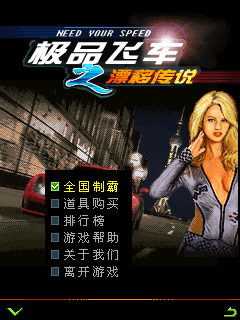
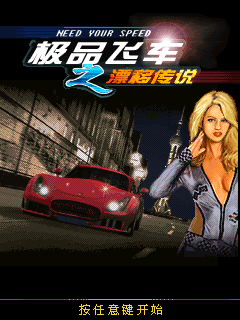
Restore native touch queries and rectangle hit testing

diff --git a/crates/nicaiemu-core/src/machine/services/game.rs b/crates/nicaiemu-core/src/machine/services/game.rs
@@ -211,6 +211,24 @@ impl NicaiMachine {
                 );
                 self.set_result(u32::from(result));
             }
+            52 => {
+                let stack = self.register(reg::SP);
+                let left = signed_coord(self.register(0));
+                let top = signed_coord(self.register(1));
+                let width = signed_coord(self.register(2));
+                let height = signed_coord(self.register(3));
+                let result = width > 0
+                    && height > 0
+                    && rect_contains_point(
+                        left,
+                        top,
+                        left + width - 1,
+                        top + height - 1,
+                        signed_coord(self.memory.r32(stack)),
+                        signed_coord(self.memory.r32(stack + 4)),
+                    );
+                self.set_result(u32::from(result));
+            }
             56 if gameold_abi => {
                 self.handle_method_stub(Self::method_stub_address(METHOD_KIND_GAMEOLD, 0xe0) & !1);
             }
@@ -1844,6 +1862,14 @@ impl NicaiMachine {
             (0x190, 3, 102),
             (0x1ac, 11, 9),
             (0x1b0, 3, 110),
+            (0xd0, 3, 52),
+            (0xf8, 3, 62),
+            (0xfc, 3, 63),
+            (0x100, 3, 64),
+            (0x104, 3, 65),
+            (0x108, 3, 66),
+            (0x10c, 3, 67),
+            (0x110, 3, 68),
         ] {
             self.memory.w32(
                 info + offset,
@@ -1984,6 +2010,69 @@ mod tests {
 
     fn pack(high: i16, low: i16) -> u32 {
         u32::from(low as u16) | (u32::from(high as u16) << 16)
+    }
+
+    #[test]
+    fn native_touch_queries_use_pointer_state_without_allocating_results() {
+        use crate::machine::{NicaiMachine, SERVICE_BASE, TABLE_STRIDE};
+        use armv4t_emu::{reg, Memory};
+        let mut machine = NicaiMachine::new_blank_for_tests();
+        let info = machine.build_native_system_info();
+        for (offset, index) in [
+            (0xf8, 62),
+            (0xfc, 63),
+            (0x100, 64),
+            (0x104, 65),
+            (0x108, 66),
+            (0x10c, 67),
+            (0x110, 68),
+            (0xd0, 52),
+        ] {
+            assert_eq!(
+                machine.memory.r32(info + offset),
+                SERVICE_BASE + TABLE_STRIDE * 3 + index * 4
+            );
+        }
+        let stack = machine.allocate(128);
+        machine.memory.w32(stack + 68, 0x1234_5679);
+        machine.set_user_register(reg::SP, stack);
+        let cursor = machine.heap_cursor;
+        let query = machine.memory.r32(info + 0xfc);
+        machine.invoke_callback(query | 1, 0, 0, 0, 1000).unwrap();
+        assert_eq!(machine.register(0), 0);
+        machine.set_pointer(45, 181, true);
+        machine.invoke_callback(query | 1, 0, 0, 0, 1000).unwrap();
+        assert_eq!(machine.register(0), 1);
+        assert_eq!(machine.heap_cursor, cursor);
+        assert_eq!(machine.memory.r32(stack + 68), 0x1234_5679);
+        let query = machine.memory.r32(info + 0x108);
+        machine.invoke_callback(query | 1, 0, 0, 0, 1000).unwrap();
+        assert_eq!(machine.register(0), 45);
+    }
+
+    #[test]
+    fn sized_rectangle_hit_test_checks_coordinates_and_excludes_far_edge() {
+        use crate::machine::NicaiMachine;
+        use armv4t_emu::{reg, Memory};
+        let mut machine = NicaiMachine::new_blank_for_tests();
+        let stack = machine.allocate(8);
+        machine.set_user_register(reg::SP, stack);
+        for (x, y, expected) in [
+            (45, 181, 1),
+            (131, 197, 1),
+            (132, 197, 0),
+            (45, 198, 0),
+            (0, 0, 0),
+        ] {
+            machine.set_user_register(0, 45);
+            machine.set_user_register(1, 181);
+            machine.set_user_register(2, 87);
+            machine.set_user_register(3, 17);
+            machine.memory.w32(stack, x);
+            machine.memory.w32(stack + 4, y);
+            machine.handle_game_service(52);
+            assert_eq!(machine.register(0), expected);
+        }
     }
 
     #[test]

diff --git a/docs/Game-Compatibility.md b/docs/Game-Compatibility.md
@@ -106,7 +106,7 @@ not provide the original server's content or a real carrier payment service.
 | 57 | `A/星际宝藏V10.CBE` | 240×320 | <img src="images/A/星际宝藏V10.png" width="120" alt="星际宝藏V10 idle frame"> | Not assessed | Ready | Idle frame captured; interaction/gameplay unverified |
 | 58 | `A/暴力摩托(新品).CBE` | 240×320 | <img src="images/A/暴力摩托(新品).png" width="120" alt="暴力摩托(新品) idle frame"> | Not assessed | Ready | Idle frame captured; interaction/gameplay unverified |
 | 59 | `A/暴力摩托V10.CBE` | 240×320 | <img src="images/A/暴力摩托V10.png" width="120" alt="暴力摩托V10 idle frame"> | Not assessed | Ready | Menu renders at 240x320; gameplay unverified |
-| 60 | `A/极品飞车(火爆).CBE` | 240×320 | <img src="images/A/极品飞车(火爆).png" width="120" alt="极品飞车(火爆) idle frame"> | Not assessed | Halted | Idle frame captured; interaction/gameplay unverified |
+| 60 | `A/极品飞车(火爆).CBE` | 240×320 | <img src="images/A/极品飞车(火爆).png" width="120" alt="极品飞车(火爆) idle frame"> | Not assessed | Ready | Startup, menu navigation, help, back and touch input verified; starting a race still hits a guest picture-library assertion |
 | 61 | `A/极品飞车V10.CBE` | 240×320 | <img src="images/A/极品飞车V10.png" width="120" alt="极品飞车V10 idle frame"> | Not assessed | Ready | Idle frame captured; interaction/gameplay unverified |
 | 62 | `A/极限挑战V101.CBE` | 240×320 | <img src="images/A/极限挑战V101.png" width="120" alt="极限挑战V101 idle frame"> | Not assessed | Ready | Idle frame captured; interaction/gameplay unverified |
 | 63 | `A/毒蛇行动V101.CBE` | 240×320 | <img src="images/A/毒蛇行动V101.png" width="120" alt="毒蛇行动V101 idle frame"> | Not assessed | Ready | Idle frame captured; interaction/gameplay unverified |

diff --git a/docs/architecture.md b/docs/architecture.md
@@ -218,6 +218,11 @@ and route directional and soft-key input through deferred guest callbacks.
 Nested controls use the same screen stack as application screens; releasing a
 control removes its screen and frees its owned memory.
 
+Native game-manager tables bind pointer held/down/up/drag queries, pointer
+coordinates and current key state to the shared input state. Sized rectangle
+hit tests use their supplied coordinates and exclude the far edge, so idle
+frames cannot accidentally activate touch-driven menus.
+
 The fixed game manager routes its string and font queries to the GameLCD renderer.
 Font queries return pixel metrics rather than echoing leftover stub addresses.
 Legacy GameLCD uses separate register/stack arguments for tile blits and
